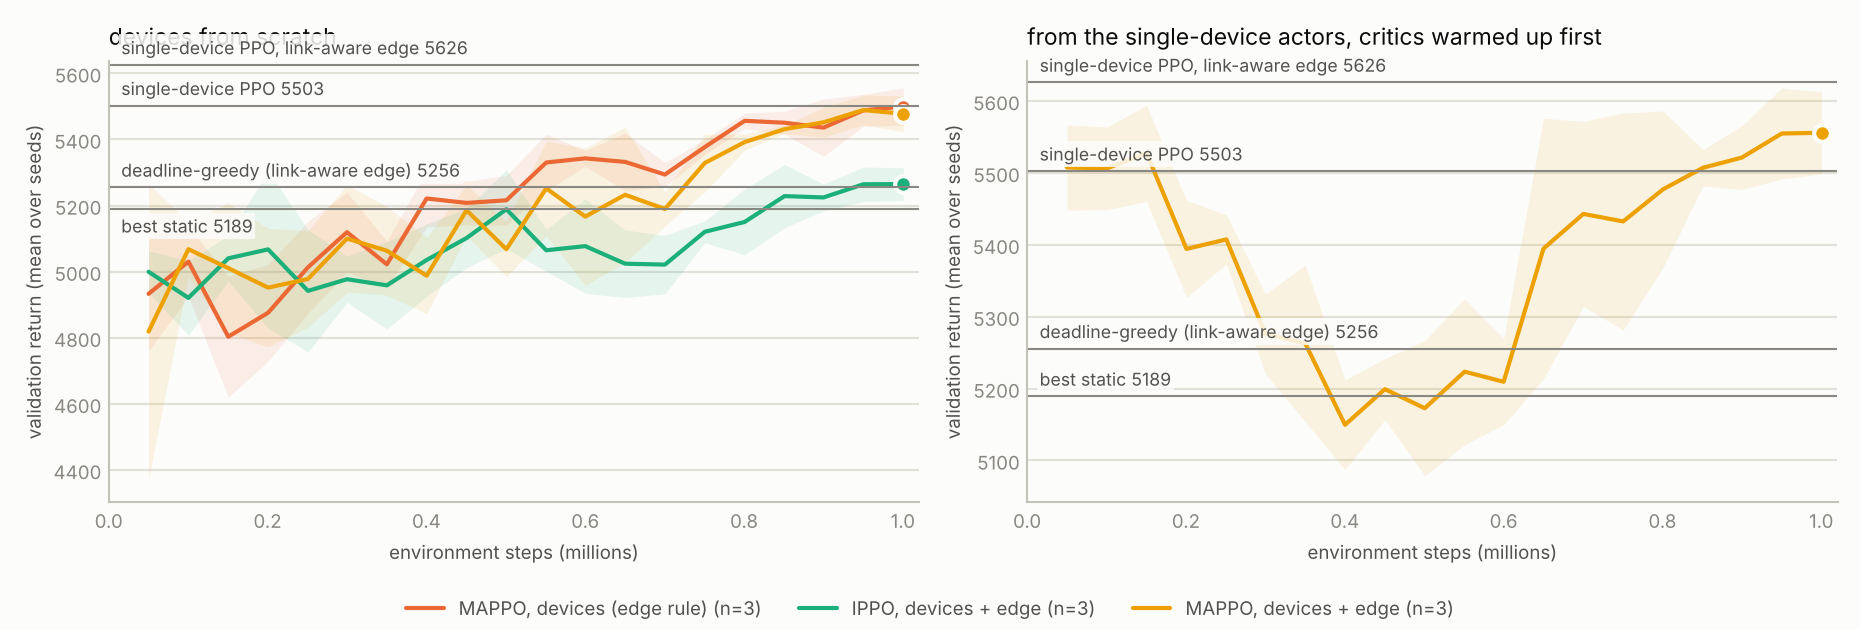
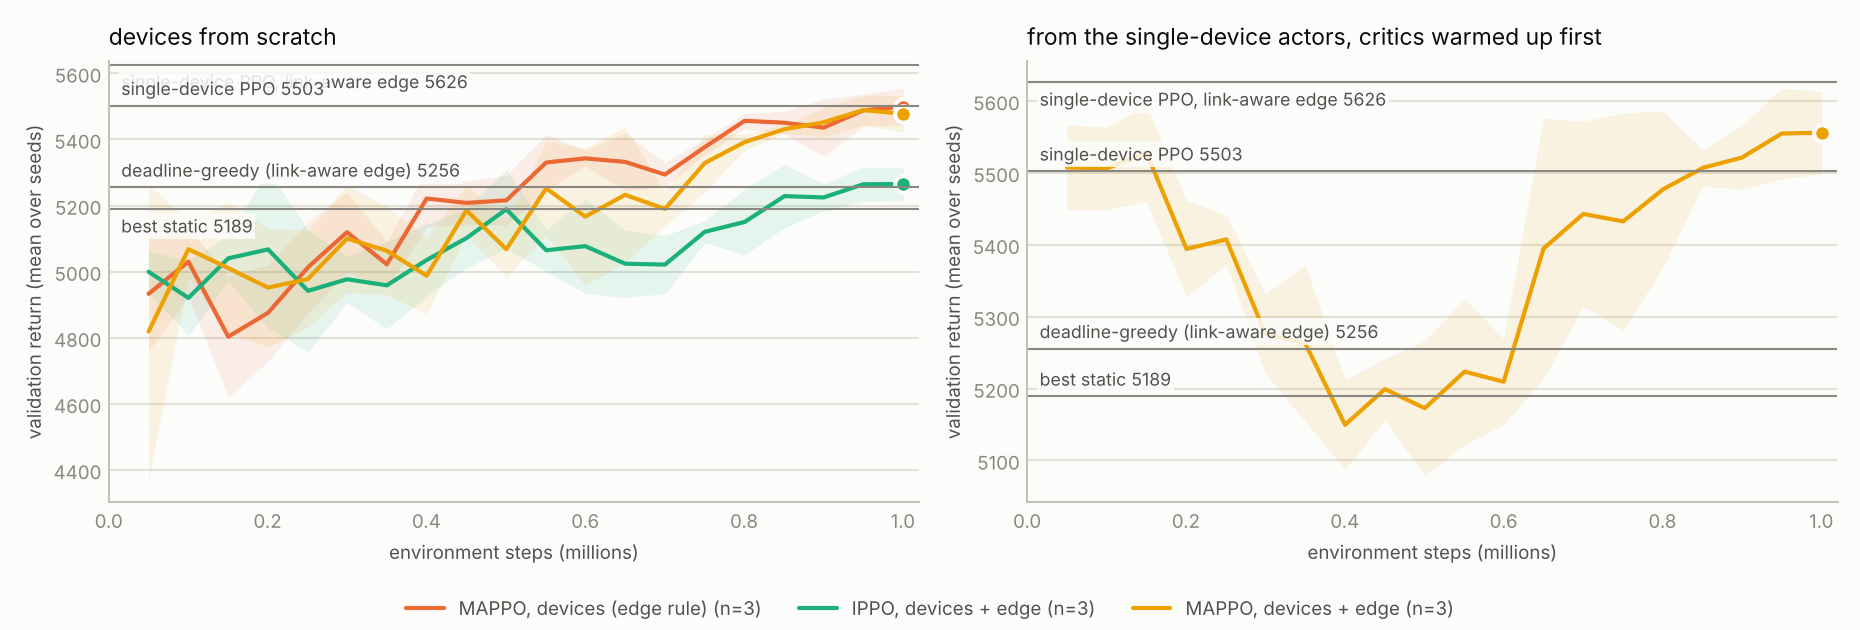
Figures: non-overlapping reference labels, wrapped legends, redraw from data
- learning_curves(): a reference label goes above its line only if it fits
  below the previous label (or the top of the axes), else below the line;
  the legend wraps into rows when it would be wider than the panels.
- fleet_study saves each figure's data (results/runs/<name>/figure.json) and
  redraws from it; scripts/run_fleet.py --redraw redraws without evaluating.

Claude-Session: https://claude.ai/code/session_01EL8QWLWejBot3y9GXuXEAV

Changed region(s): [[0.0624, 0.0603, 0.2495, 0.1508], [0.5613, 0.1508, 0.7484, 0.181], [0.5613, 0.0905, 0.7484, 0.1206]]

diff --git a/edgearbiter/plots.py b/edgearbiter/plots.py
@@ -58,15 +58,16 @@ def learning_curves(curves: Dict[str, Dict[str, Optional[dict]]], references: Di
         lo_y, hi_y = ax.get_ylim()
         lo_y, hi_y = min([lo_y] + [v for _, v in refs]) - 10, max([hi_y] + [v for _, v in refs]) + 10
         ax.set_ylim(lo_y, hi_y)
-        prev = hi_y                       # the top of the axes counts as the line above the first reference
-        for name, value in refs:          # label above its line, or below it when the line above is too close
-            below = prev - value < 0.06 * (hi_y - lo_y)
+        label_h = 0.065 * (hi_y - lo_y)   # height of a reference label, in data units
+        ceiling = hi_y                    # lowest point taken so far by the axes top, a line or a label
+        for name, value in refs:          # label above its line when it fits under the ceiling, else below it
+            below = ceiling - value < label_h
             ax.axhline(value, color=t["muted"], linewidth=1)
             ax.annotate(f"{name} {value:.0f}", xy=(0, value), xycoords=("axes fraction", "data"),
                         xytext=(6, -3 if below else 3), textcoords="offset points", fontsize=8.5, color=t["ink2"],
                         ha="left", va="top" if below else "bottom", zorder=5,
                         bbox={"boxstyle": "square,pad=0.15", "facecolor": t["surface"], "edgecolor": "none", "alpha": 0.85})
-            prev = value
+            ceiling = value - label_h if below else value
         ax.set_title(scenario.replace("_", " "), color=t["ink"], fontsize=11, loc="left", pad=8)
         ax.set_xlabel("environment steps (millions)", color=t["ink2"], fontsize=9)
         ax.set_ylabel("validation return (mean over seeds)", color=t["ink2"], fontsize=9)
@@ -76,12 +77,14 @@ def learning_curves(curves: Dict[str, Dict[str, Optional[dict]]], references: Di
         for h, n in zip(*ax.get_legend_handles_labels()):
             if n not in names:
                 handles.append(h); names.append(n)
+    ncol = min(len(handles), 2 * len(scenarios)) or 1    # about two entries fit under each panel
+    rows = -(-len(handles) // ncol)
     if handles:
-        leg = fig.legend(handles, names, loc="lower center", ncol=len(handles), frameon=False, fontsize=9,
+        leg = fig.legend(handles, names, loc="lower center", ncol=ncol, frameon=False, fontsize=9,
                          bbox_to_anchor=(0.5, -0.01))
         for txt in leg.get_texts():
             txt.set_color(t["ink2"])
-    fig.tight_layout(rect=(0, 0.07, 1, 1))
+    fig.tight_layout(rect=(0, 0.07 * rows, 1, 1))
     out = Path(out); out.parent.mkdir(parents=True, exist_ok=True)
     fig.savefig(out, dpi=150, facecolor=t["surface"])
     plt.close(fig)

diff --git a/edgearbiter/fleet_study.py b/edgearbiter/fleet_study.py
@@ -171,6 +171,16 @@ def best_static_fleet(costs: CostTable, cfg: SimConfig, n_episodes: int = 10, pr
     return name, static_policy(a), scores
 
 
+def redraw_figure(out_dir: Path, name: str = "fleet") -> None:
+    """Draw the learning-curve figure (light and dark) from the data saved by `run_fleet_study`."""
+    from .plots import learning_curves
+    data = json.loads((Path(out_dir) / "runs" / name / "figure.json").read_text(encoding="utf-8"))
+    panels, refs = data["panels"], data["references"]
+    for theme, suffix in (("light", ""), ("dark", "_dark")):
+        learning_curves(panels, {p: refs for p in panels}, BASE_LABELS, Path(out_dir) / f"{name}_learning_curves{suffix}.png",
+                        theme, colors=COLORS)
+
+
 def run_fleet_study(algos: Sequence[str], seeds: Sequence[int], steps: int, out_dir: Path = Path("results"),
                     models_dir: Path = Path("models"), workers: int = 1, train: bool = True, n_episodes: int = 20,
                     eval_every: int = 50_000, cost_table: Optional[str] = None, budget_fraction: float = 0.7,
@@ -231,14 +241,13 @@ def run_fleet_study(algos: Sequence[str], seeds: Sequence[int], steps: int, out_
     save_results(results, out_dir, f"{name}_{SCENARIO}", ref=static_name, header=header)
     figure = ""
     try:
-        from .plots import learning_curves
         panels: Dict[str, dict] = {}                 # one panel per recipe, one series per base algorithm
         for a, c in curves.items():
             base, recipe = ALGOS[a]
             panels.setdefault(RECIPES[recipe][0], {})[base] = c
-        for theme, suffix in (("light", ""), ("dark", "_dark")):
-            learning_curves(panels, {p: refs for p in panels}, BASE_LABELS,
-                            out_dir / f"{name}_learning_curves{suffix}.png", theme, colors=COLORS)
+        data = out_dir / "runs" / name / "figure.json"   # what the figure shows, to redraw it without evaluating
+        data.write_text(json.dumps({"panels": panels, "references": refs}, indent=1), encoding="utf-8")
+        redraw_figure(out_dir, name)
         figure = (f'<picture><source media="(prefers-color-scheme: dark)" srcset="{name}_learning_curves_dark.png">'
                   f'<img alt="Validation return vs training steps, {n} devices sharing one edge" '
                   f'src="{name}_learning_curves.png"></picture>\n\n')

diff --git a/scripts/run_fleet.py b/scripts/run_fleet.py
@@ -14,7 +14,7 @@ import argparse
 import os
 import sys
 
-from edgearbiter.fleet_study import ALGOS, run_fleet_study
+from edgearbiter.fleet_study import ALGOS, redraw_figure, run_fleet_study
 from edgearbiter.sim.fleet import PROFILES
 from edgearbiter.sim.link import LINK_PROFILES
 
@@ -33,6 +33,7 @@ def main():
     ap.add_argument("--eval-every", type=int, default=50_000)
     ap.add_argument("--skip-training", action="store_true")
     ap.add_argument("--train-only", action="store_true", help="train, but leave the evaluation and the report for later")
+    ap.add_argument("--redraw", action="store_true", help="only redraw the figure from the saved figure data")
     ap.add_argument("--no-transfer", action="store_true", help="skip the single-device PPO baseline")
     ap.add_argument("--budget-fraction", type=float, default=0.7)
     ap.add_argument("--cost-table", default=None)
@@ -42,6 +43,9 @@ def main():
     ap.add_argument("--out", default="results")
     ap.add_argument("--models", default="models")
     args = ap.parse_args()
+    if args.redraw:
+        redraw_figure(args.out, args.name)
+        return
     print(run_fleet_study(args.algos, args.seeds, args.steps, out_dir=args.out, models_dir=args.models,
                           workers=args.workers, train=not args.skip_training, n_episodes=args.episodes,
                           eval_every=args.eval_every, cost_table=args.cost_table, budget_fraction=args.budget_fraction,
